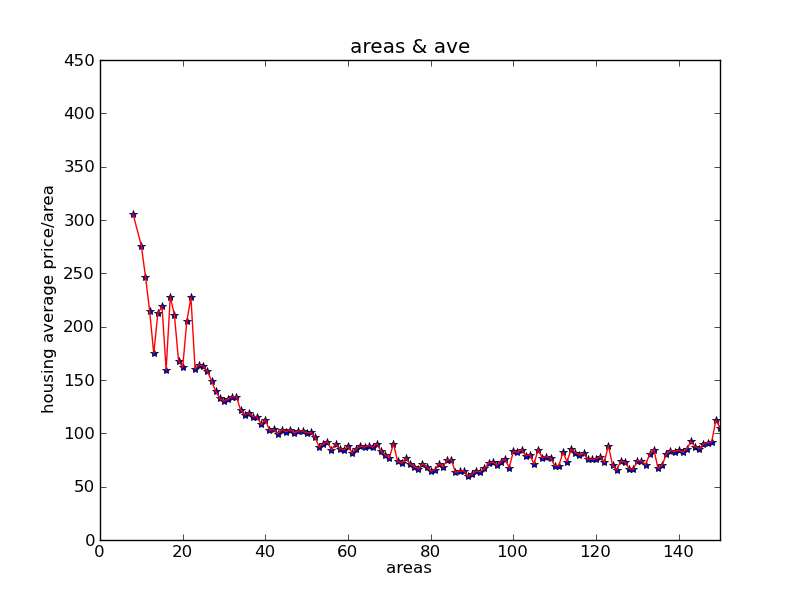
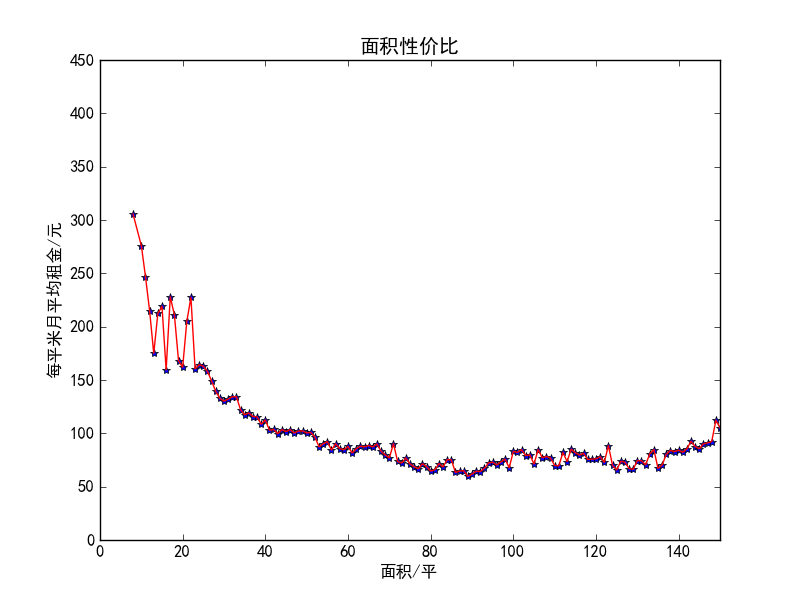
update png

diff --git a/python/Datavisualization.py b/python/Datavisualization.py
@@ -57,9 +57,9 @@ def ave_and_area(start, end):
     plt.plot(areas, price, 'b*')
     plt.plot(areas, price, 'r')
     plt.xlim(start, end)
-    plt.xlabel('areas')
-    plt.ylabel('housing average price/area')
-    plt.title('areas & ave')
+    plt.xlabel(u'面积/平')
+    plt.ylabel(u'每平米月平均租金/元')
+    plt.title(u'面积性价比')
     plt.legend()
     plt.savefig("aveAndArea.png")
     plt.show()
@@ -88,6 +88,8 @@ def ave_and_community(start, end=None, length=10):
     ax.barh(ind - width / 2, price, width, color='blue')
     ax.set_yticks(ind)
     ax.set_yticklabels(community)
+    plt.xlabel(u"每平米月平均租金/元")
+    plt.title(u"小区性价比")
     plt.grid(True)
     plt.savefig("aveAndCommunity.png")
     plt.show()
@@ -115,7 +117,7 @@ def title_word_cloud():
     text = ''
     wc = WordCloud(background_color='white',  # 设置背景颜色
                    stopwords=STOPWORDS,
-                   max_words=2000,  # 设置最大现实的字数
+                   max_words=1000,  # 设置最大现实的字数
                    font_path='C:/Python27/Lib/site-packages/matplotlib/mpl-data/fonts/ttf/simhei.ttf',
                    # 设置字体格式，如不设置显示不了中文
                    max_font_size=50,  # 设置字体最大值
@@ -143,7 +145,7 @@ def model_frequency():
         text = row[u'model']
         temp_list.append(text)
     d = Counter(temp_list).most_common(6)
-    a = [unicode(i[0]+'\n({})'.format(i[1]), "utf-8") for i in d]
+    a = [unicode(i[0] + '\n({})'.format(i[1]), "utf-8") for i in d]
     b = [i[1] for i in d]
     a.append(u'其他\n({})'.format(len(reader) - sum(b)))
     b.append(len(reader) - sum(b))
@@ -156,8 +158,9 @@ def model_frequency():
     plt.savefig('modelFrequency.png')
     plt.show()
 
-if __name__="__main__":
-    aveAndArea(0, 150)
-    aveAndCommunity(0,10,length=10)
+
+if __name__ == "__main__":
+    ave_and_area(0, 150)
+    ave_and_community(0, 10, length=10)
     title_word_cloud()
     model_frequency()

diff --git a/python/DataProcessing.py b/python/DataProcessing.py
@@ -65,6 +65,7 @@ def average(input, output):
     csvfile.close()
     csvFile2.close()
 
-if __name__="__main__":
+
+if __name__ == "__main__":
     gps_change('rent.csv', 'rent_gps.csv')
     average('rent_gps.csv', 'rent_ave.csv')
